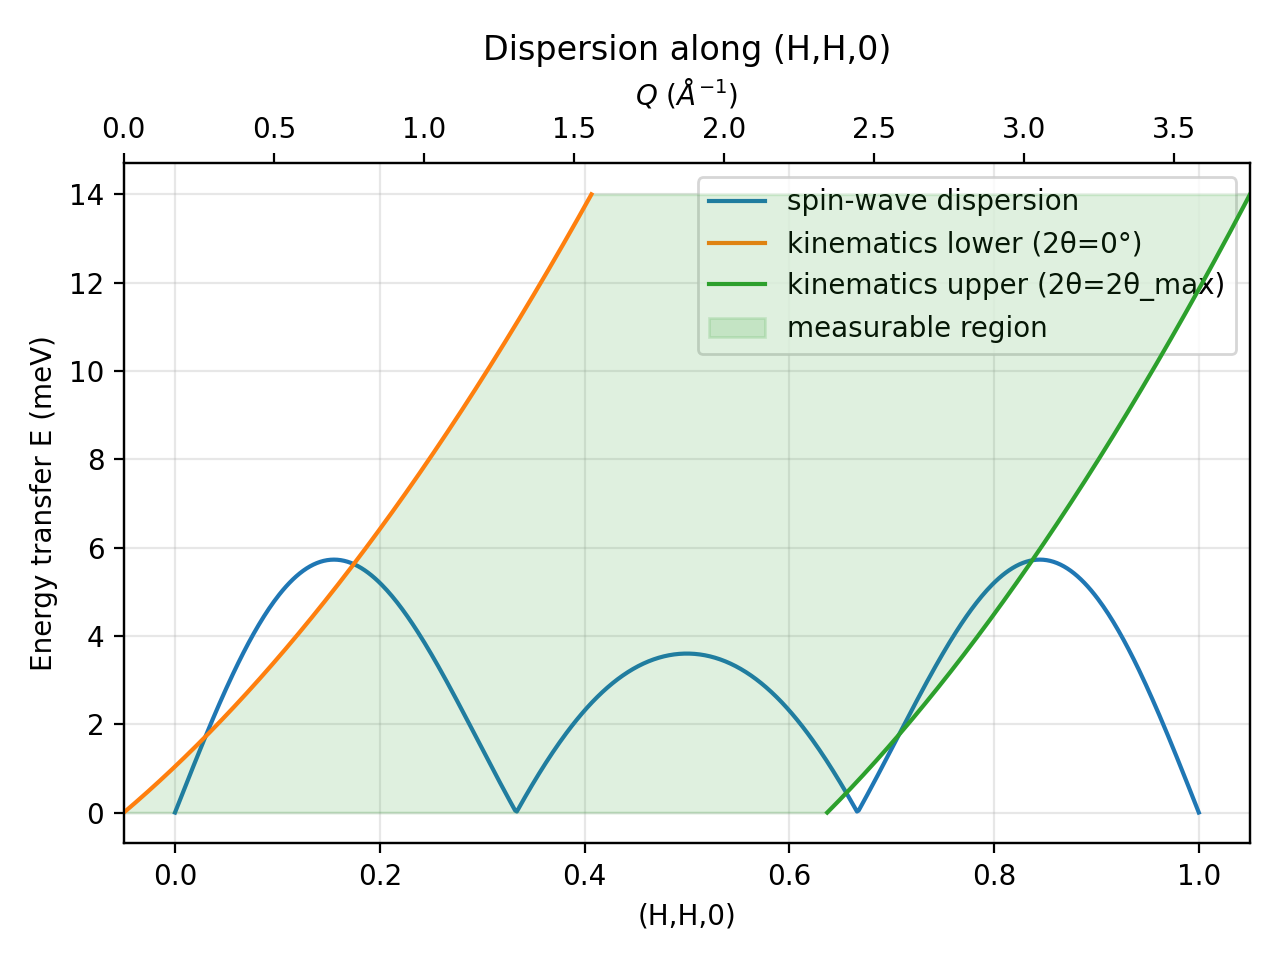
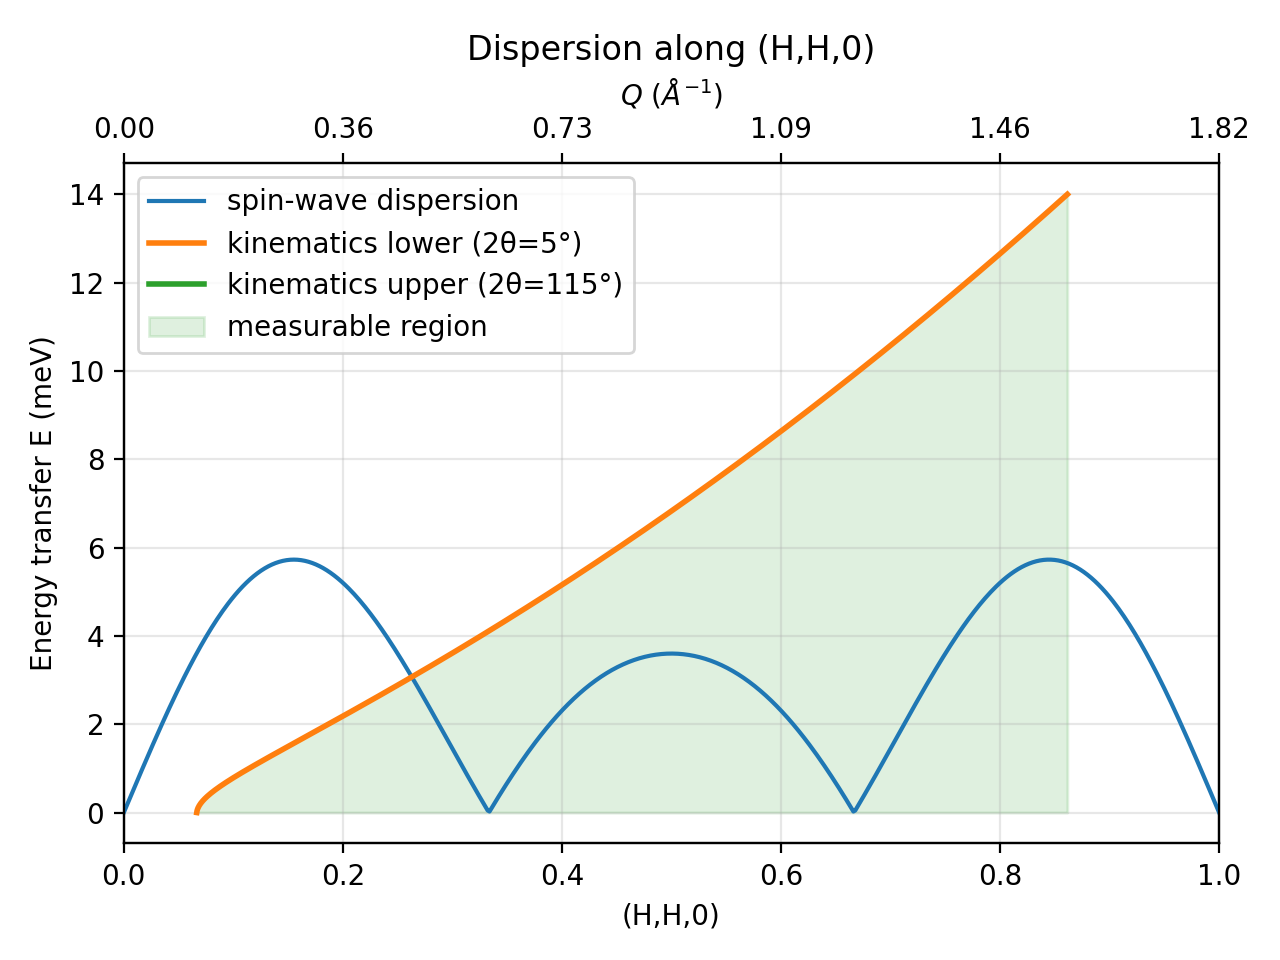
Fix Q-path mapping and kinematic region plotting

diff --git a/code/qe_plot.py b/code/qe_plot.py
@@ -140,73 +140,228 @@ def make_energy_grid(Emax: float, n: int = 800) -> np.ndarray:
     return np.linspace(0.0, float(Emax), int(n))
 
 
+def energy_from_path_coord(
+    x_eval: np.ndarray, x_curve: np.ndarray, E_grid: np.ndarray
+) -> np.ndarray:
+    """
+    Interpolate E(x) from a sampled monotonic x(E) curve.
+    Returns NaN outside the sampled x domain.
+    """
+    valid = np.isfinite(x_curve) & np.isfinite(E_grid)
+    if not np.any(valid):
+        return np.full_like(x_eval, np.nan, dtype=float)
+
+    x_valid = x_curve[valid]
+    E_valid = E_grid[valid]
+    order = np.argsort(x_valid)
+    x_sorted = x_valid[order]
+    E_sorted = E_valid[order]
+
+    uniq_x, uniq_idx = np.unique(x_sorted, return_index=True)
+    uniq_E = E_sorted[uniq_idx]
+    if uniq_x.size < 2:
+        return np.full_like(x_eval, np.nan, dtype=float)
+
+    return np.interp(x_eval, uniq_x, uniq_E, left=np.nan, right=np.nan)
+
+
 def plot_path(
     ax,
     x_path: np.ndarray,
     x_label: str,
-    Q_path: np.ndarray,
     E_path: np.ndarray,
     E_grid: np.ndarray,
     Q_low: np.ndarray,
     Q_high: np.ndarray,
+    Q_scale: float,
+    two_theta_min_deg: float,
+    two_theta_max_deg: float,
     title: str,
 ):
-    """Plot dispersion vs. path parameter with Q-based kinematics on a twin axis."""
-    (spin_line,) = ax.plot(x_path, E_path, label="spin-wave dispersion")
+    """Plot dispersion vs. path parameter for linear path Q(x)=|Q_scale*x| (e.g. HH0)."""
+    x_abs_low = Q_low / abs(Q_scale)
+    x_abs_high = Q_high / abs(Q_scale)
+    x_abs = np.abs(x_path)
+    E_top = energy_from_path_coord(x_abs, x_abs_low, E_grid)
+    upper_in_view = np.any(
+        np.isfinite(x_abs_high)
+        & (x_abs_high >= np.nanmin(x_abs))
+        & (x_abs_high <= np.nanmax(x_abs))
+    )
+    if upper_in_view:
+        E_bottom = energy_from_path_coord(x_abs, x_abs_high, E_grid)
+    else:
+        E_bottom = np.zeros_like(x_path, dtype=float)
+    region_mask = np.isfinite(E_top) & np.isfinite(E_bottom) & (E_top >= E_bottom)
+    region = ax.fill_between(
+        x_path,
+        E_bottom,
+        E_top,
+        where=region_mask,
+        alpha=0.15,
+        color="tab:green",
+        label="measurable region",
+        zorder=1,
+    )
+    (spin_line,) = ax.plot(x_path, E_path, label="spin-wave dispersion", zorder=3)
+    (low_line,) = ax.plot(
+        x_abs_low,
+        E_grid,
+        label=f"kinematics lower (2θ={two_theta_min_deg:g}°)",
+        color="tab:orange",
+        linewidth=2.0,
+        zorder=4,
+    )
+    (high_line,) = ax.plot(
+        x_abs_high,
+        E_grid,
+        label=f"kinematics upper (2θ={two_theta_max_deg:g}°)",
+        color="tab:green",
+        linewidth=2.0,
+        zorder=5,
+    )
 
     ax.set_title(title)
     ax.set_xlabel(x_label)
     ax.set_ylabel("Energy transfer E (meV)")
+    ax.set_xlim(float(np.nanmin(x_path)), float(np.nanmax(x_path)))
     ax.grid(True, alpha=0.3)
 
+    # Top Q-axis reference for the plotted path.
     ax_q = ax.twiny()
     ax_q.patch.set_alpha(0.0)
+    ax_q.set_xlim(ax.get_xlim())
+    xticks = ax.get_xticks()
+    q_ticks = abs(Q_scale) * np.abs(xticks)
+    ax_q.set_xticks(xticks)
+    ax_q.set_xticklabels([f"{q:.2f}" for q in q_ticks])
+    ax_q.set_xlabel(r"$Q\ (\AA^{-1})$")
 
-    (low_line,) = ax_q.plot(
-        Q_low,
-        E_grid,
-        label="kinematics lower (2θ=0°)",
-        color="tab:orange",
+    ax.legend([spin_line, low_line, high_line, region], [
+        "spin-wave dispersion",
+        f"kinematics lower (2θ={two_theta_min_deg:g}°)",
+        f"kinematics upper (2θ={two_theta_max_deg:g}°)",
+        "measurable region",
+    ], loc="best")
+
+
+def qedge_to_abs_path(
+    Q_edge: np.ndarray, Q_center: float, Q_scale: float
+) -> np.ndarray:
+    """
+    Invert Q(x)^2 = Q_center^2 + (Q_scale * x)^2 into |x|(Q_edge).
+    """
+    delta = Q_edge * Q_edge - Q_center * Q_center
+    delta = np.where(delta >= 0.0, delta, np.nan)
+    return np.sqrt(delta) / abs(Q_scale)
+
+
+def plot_symmetric_path(
+    ax,
+    x_path: np.ndarray,
+    x_label: str,
+    E_path: np.ndarray,
+    E_grid: np.ndarray,
+    Q_low: np.ndarray,
+    Q_high: np.ndarray,
+    Q_center: float,
+    Q_scale: float,
+    two_theta_min_deg: float,
+    two_theta_max_deg: float,
+    title: str,
+):
+    """
+    Plot dispersion vs. symmetric path parameter (K/L) where
+    Q(x)^2 = Q_center^2 + (Q_scale*x)^2.
+    """
+    x_abs_low = qedge_to_abs_path(Q_low, Q_center=Q_center, Q_scale=Q_scale)
+    x_abs_high = qedge_to_abs_path(Q_high, Q_center=Q_center, Q_scale=Q_scale)
+    x_abs = np.abs(x_path)
+    E_top = energy_from_path_coord(x_abs, x_abs_low, E_grid)
+    upper_in_view = np.any(
+        np.isfinite(x_abs_high)
+        & (x_abs_high >= np.nanmin(x_abs))
+        & (x_abs_high <= np.nanmax(x_abs))
     )
-    (high_line,) = ax_q.plot(
-        Q_high,
-        E_grid,
-        label="kinematics upper (2θ=2θ_max)",
-        color="tab:green",
-    )
-    region = ax_q.fill_betweenx(
-        E_grid,
-        Q_low,
-        Q_high,
+    if upper_in_view:
+        E_bottom = energy_from_path_coord(x_abs, x_abs_high, E_grid)
+    else:
+        E_bottom = np.zeros_like(x_path, dtype=float)
+    region_mask = np.isfinite(E_top) & np.isfinite(E_bottom) & (E_top >= E_bottom)
+    region = ax.fill_between(
+        x_path,
+        E_bottom,
+        E_top,
+        where=region_mask,
         alpha=0.15,
         color="tab:green",
         label="measurable region",
+        zorder=1,
     )
+    (spin_line,) = ax.plot(x_path, E_path, label="spin-wave dispersion", zorder=3)
+    (low_line,) = ax.plot(
+        x_abs_low,
+        E_grid,
+        color="tab:orange",
+        label=f"kinematics lower (2θ={two_theta_min_deg:g}°)",
+        linewidth=2.0,
+        zorder=4,
+    )
+    (high_line,) = ax.plot(
+        x_abs_high,
+        E_grid,
+        color="tab:green",
+        label=f"kinematics upper (2θ={two_theta_max_deg:g}°)",
+        linewidth=2.0,
+        zorder=5,
+    )
+    ax.plot(-x_abs_low, E_grid, color="tab:orange", alpha=0.7, linewidth=2.0, zorder=4)
+    ax.plot(-x_abs_high, E_grid, color="tab:green", alpha=0.7, linewidth=2.0, zorder=5)
 
-    finite_low = (
-        np.nanmin(Q_low[np.isfinite(Q_low)]) if np.any(np.isfinite(Q_low)) else 0.0
-    )
-    finite_high = (
-        np.nanmax(Q_high[np.isfinite(Q_high)]) if np.any(np.isfinite(Q_high)) else 1.0
-    )
-    ax_q.set_xlim(finite_low, finite_high)
+    ax.set_title(title)
+    ax.set_xlabel(x_label)
+    ax.set_ylabel("Energy transfer E (meV)")
+    ax.set_xlim(float(np.nanmin(x_path)), float(np.nanmax(x_path)))
+    ax.grid(True, alpha=0.3)
+
+    # Add a top Q-axis as reference (symmetric in ±x, using |x|).
+    ax_q = ax.twiny()
+    ax_q.patch.set_alpha(0.0)
+    ax_q.set_xlim(ax.get_xlim())
+    xticks = ax.get_xticks()
+    q_ticks = np.sqrt(Q_center * Q_center + (Q_scale * np.abs(xticks)) ** 2)
+    ax_q.set_xticks(xticks)
+    ax_q.set_xticklabels([f"{q:.2f}" for q in q_ticks])
     ax_q.set_xlabel(r"$Q\ (\AA^{-1})$")
 
-    handles, labels = ax.get_legend_handles_labels()
-    handles_q = [low_line, high_line, region]
-    labels_q = [h.get_label() for h in handles_q]
-    ax.legend(handles + handles_q, labels + labels_q, loc="best")
+    ax.legend([spin_line, low_line, high_line, region], [
+        "spin-wave dispersion",
+        f"kinematics lower (2θ={two_theta_min_deg:g}°)",
+        f"kinematics upper (2θ={two_theta_max_deg:g}°)",
+        "measurable region",
+    ], loc="best")
 
 
 def main():
-    if len(sys.argv) < 2:
-        print("Usage: python qe_plot.py list.txt")
-        sys.exit(1)
+    default_param_path = SCRIPT_DIR / "list.txt"
+    if len(sys.argv) >= 2 and sys.argv[1] in ("-h", "--help"):
+        print("Usage: python code/qe_plot.py [path/to/list.txt]")
+        print(f"If omitted, default is: {default_param_path}")
+        sys.exit(0)
 
-    params = load_params_list_txt(sys.argv[1])
+    if len(sys.argv) < 2:
+        param_path = default_param_path
+        print(f"No parameter file specified. Using default: {param_path}")
+    else:
+        param_path = Path(sys.argv[1])
+
+    params = load_params_list_txt(str(param_path))
 
     # Required physics params
-    require(params, ["S", "J1", "J2", "Ef", "Ei_max", "two_theta_max_deg"])
+    require(
+        params,
+        ["S", "J1", "J2", "Ef", "Ei_max", "two_theta_min_deg", "two_theta_max_deg"],
+    )
     require(params, ["Q_110", "Q_1m10", "Q_001"])
 
     S = float(params["S"])
@@ -215,6 +370,7 @@ def main():
 
     Ef = float(params["Ef"])  # meV
     Ei_max = float(params["Ei_max"])  # meV
+    two_theta_min = float(params["two_theta_min_deg"])  # deg
     two_theta_max = float(params["two_theta_max_deg"])  # deg
     Q_110 = float(params["Q_110"])
     Q_1m10 = float(params["Q_1m10"])
@@ -248,8 +404,16 @@ def main():
     E_grid_max = min(E_grid_max, E_transfer_max) if E_transfer_max > 0 else E_grid_max
     E_grid = make_energy_grid(E_grid_max, int(params.get("n_Egrid", 800)))
 
-    Q_low = kinematics_Q(E_grid, Ef=Ef, two_theta_deg=0.0)
+    Q_low = kinematics_Q(E_grid, Ef=Ef, two_theta_deg=two_theta_min)
     Q_high = kinematics_Q(E_grid, Ef=Ef, two_theta_deg=two_theta_max)
+    Q_center = q_to_Qmag(
+        np.array([1.0 / 3.0]),
+        np.array([1.0 / 3.0]),
+        np.array([0.0]),
+        Q_110,
+        Q_1m10,
+        Q_001,
+    )[0]
 
     outdir_raw = str(params.get("outdir", ".")).strip()
     outdir_path = Path(outdir_raw).expanduser()
@@ -261,18 +425,18 @@ def main():
     H = np.linspace(H_min, H_max, n_H)
     h1, k1, l1 = H, H, np.zeros_like(H)
     E1 = magnon_energy_meV(h1, k1, l1, S=S, J1=J1, J2=J2)
-    Q1 = q_to_Qmag(h1, k1, l1, Q_110, Q_1m10, Q_001)
-
     fig, ax = plt.subplots()
     plot_path(
         ax,
         H,
         "(H,H,0)",
-        Q1,
         E1,
         E_grid,
         Q_low,
         Q_high,
+        Q_scale=Q_110,
+        two_theta_min_deg=two_theta_min,
+        two_theta_max_deg=two_theta_max,
         title="Dispersion along (H,H,0)",
     )
     fig.tight_layout()
@@ -284,18 +448,19 @@ def main():
     k2 = (1.0 / 3.0) - K
     l2 = np.zeros_like(K)
     E2 = magnon_energy_meV(h2, k2, l2, S=S, J1=J1, J2=J2)
-    Q2 = q_to_Qmag(h2, k2, l2, Q_110, Q_1m10, Q_001)
-
     fig, ax = plt.subplots()
-    plot_path(
+    plot_symmetric_path(
         ax,
         K,
         "(1/3+K, 1/3−K, 0)",
-        Q2,
         E2,
         E_grid,
         Q_low,
         Q_high,
+        Q_center=Q_center,
+        Q_scale=Q_1m10,
+        two_theta_min_deg=two_theta_min,
+        two_theta_max_deg=two_theta_max,
         title="Dispersion along (1/3+K, 1/3−K, 0)",
     )
     fig.tight_layout()
@@ -307,18 +472,19 @@ def main():
     k3 = np.full_like(L, 1.0 / 3.0)
     l3 = L
     E3 = magnon_energy_meV(h3, k3, l3, S=S, J1=J1, J2=J2)
-    Q3 = q_to_Qmag(h3, k3, l3, Q_110, Q_1m10, Q_001)
-
     fig, ax = plt.subplots()
-    plot_path(
+    plot_symmetric_path(
         ax,
         L,
         "(1/3, 1/3, L)",
-        Q3,
         E3,
         E_grid,
         Q_low,
         Q_high,
+        Q_center=Q_center,
+        Q_scale=Q_001,
+        two_theta_min_deg=two_theta_min,
+        two_theta_max_deg=two_theta_max,
         title="Dispersion along (1/3, 1/3, L)",
     )
     fig.tight_layout()
